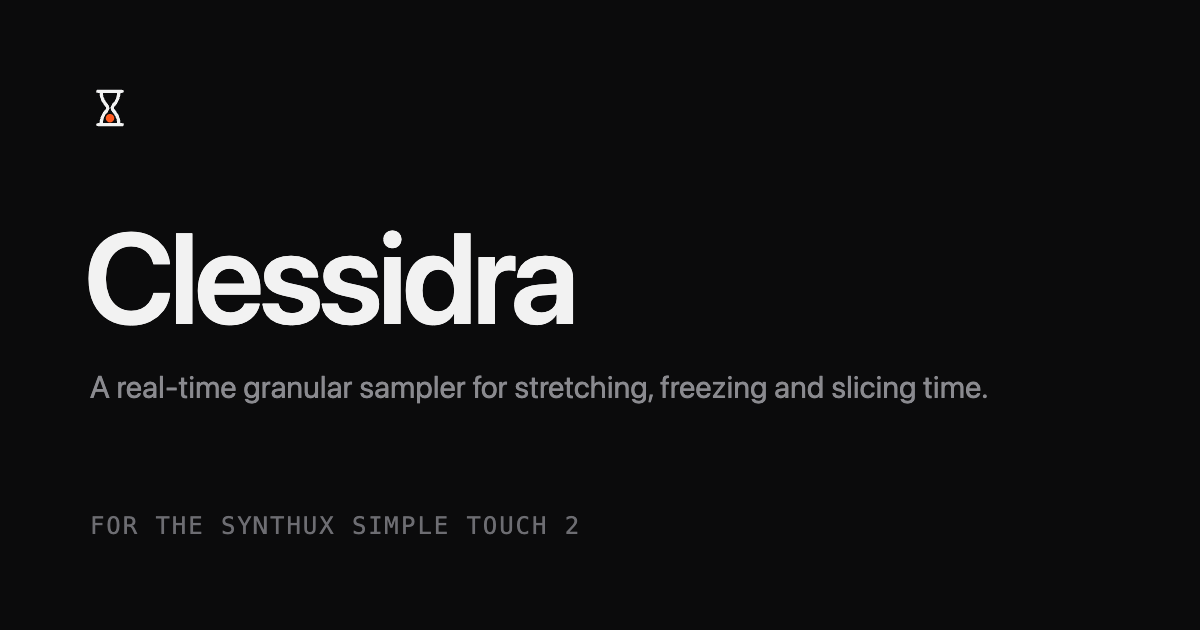
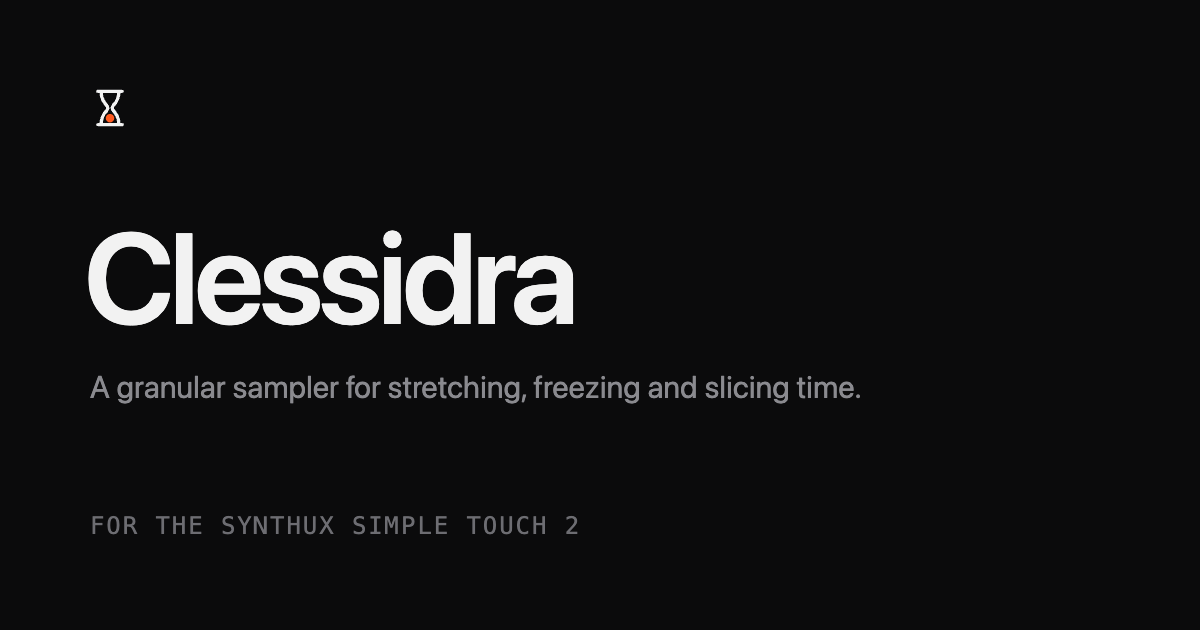
Say granular sampler everywhere
README and OG card without real-time.

Changed region(s): [[0.0925, 0.6032, 0.8325, 0.6635]]

diff --git a/web/images/og.html b/web/images/og.html
@@ -9,6 +9,6 @@ p{position:absolute;left:90px;top:368px;margin:0;font-size:31px;color:#8a8a8f;wh
 </style></head><body>
 <div class="mark"><svg viewBox="-9 -9 18 18"><path d="M-5.5-7.5h11M-5.5 7.5h11M-4-7.5C-4-2.5-1-1.5-1 0S-4 2.5-4 7.5M4-7.5C4-2.5 1-1.5 1 0S4 2.5 4 7.5" fill="none" stroke="#f2f2f2" stroke-width="1.5" stroke-linecap="round"/><circle cy="4.6" r="1.9" fill="#ff5a1f"/></svg></div>
 <h1>Clessidra</h1>
-<p>A real-time granular sampler for stretching, freezing and slicing time.</p>
+<p>A granular sampler for stretching, freezing and slicing time.</p>
 <div class="foot">FOR THE SYNTHUX SIMPLE TOUCH 2</div>
 </body></html>

diff --git a/README.md b/README.md
@@ -1,6 +1,6 @@
 # Clessidra
 
-A real-time granular sampler for the Synthux Simple Touch 2, inspired by the hourglass.
+A granular sampler for the Synthux Simple Touch 2, inspired by the hourglass.
 
 <img src="touch.jpeg" width="300"/>
 
